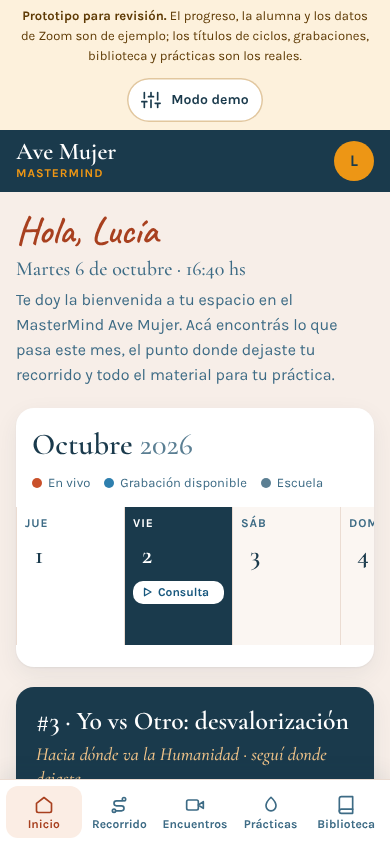
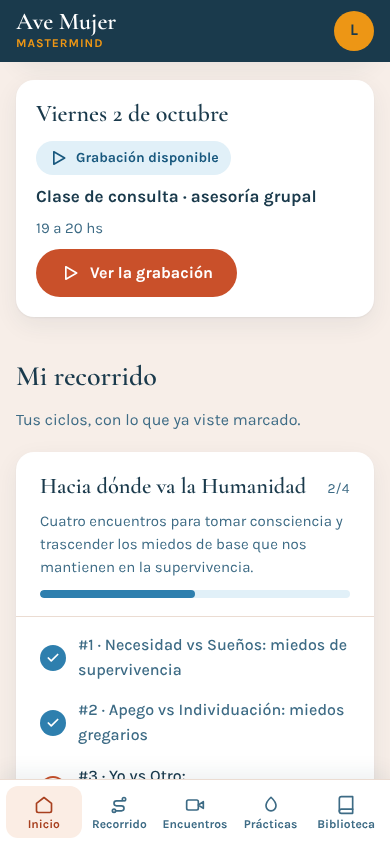
Shorten mobile prototype ribbon; verify day-selection scroll on mobile
Claude-Session: https://claude.ai/code/session_01TSiupAShzRiKr6Rwb6Yrnc

diff --git a/prototipos/escritorio-mastermind/index.html b/prototipos/escritorio-mastermind/index.html
@@ -260,6 +260,7 @@ body.in-lesson .lesson-view{display:flex}
 .lv-side .lessons{padding:4px 0 0}
 
 /* demo panel */
+.proto-short{display:none}
 .proto{display:flex;align-items:center;justify-content:center;gap:12px;flex-wrap:wrap}
 .demo-toggle{min-height:36px;padding:6px 14px;font-size:14px;box-shadow:inset 0 0 0 1.5px #E2C79E}
 .demo{position:fixed;right:20px;top:56px;z-index:30;width:min(340px,calc(100vw - 32px));background:var(--surface);border-radius:var(--r-lg);box-shadow:0 18px 48px rgb(26 58 76 / .28);padding:20px;display:flex;flex-direction:column;gap:12px}
@@ -312,7 +313,7 @@ body.in-lesson .lesson-view{display:flex}
   .demo-toggle{min-height:44px}
   .toast{bottom:calc(84px + env(safe-area-inset-bottom,0px))}
 }
-@media (max-width:520px){.player .ph{display:none}.player .play{width:68px;height:68px}.player .ttl{font-size:1.1rem}.zoom{grid-template-columns:1fr auto}.zoom dt{grid-column:1/-1;margin-bottom:-4px}}
+@media (max-width:520px){.proto{flex-wrap:nowrap;justify-content:space-between;text-align:left;padding:6px 12px}.proto-long{display:none}.proto-short{display:inline}.demo-toggle .dl{display:none}.demo-toggle{width:44px;padding:0;flex:none}.player .ph{display:none}.player .play{width:68px;height:68px}.player .ttl{font-size:1.1rem}.zoom{grid-template-columns:1fr auto}.zoom dt{grid-column:1/-1;margin-bottom:-4px}}
 </style>
 
 <svg width="0" height="0" style="position:absolute" aria-hidden="true">
@@ -359,7 +360,7 @@ body.in-lesson .lesson-view{display:flex}
   </aside>
 
   <div style="min-width:0">
-    <div class="proto" role="note"><span><b>Prototipo para revisión.</b> El progreso, la alumna y los datos de Zoom son de ejemplo; los títulos de ciclos, grabaciones, biblioteca y prácticas son los reales.</span><button class="btn light demo-toggle" type="button" id="demoToggle" aria-expanded="false" aria-controls="demo"><svg class="i"><use href="#i-sliders"/></svg>Modo demo</button></div>
+    <div class="proto" role="note"><span><b>Prototipo para revisión.</b><span class="proto-long"> El progreso, la alumna y los datos de Zoom son de ejemplo; los títulos de ciclos, grabaciones, biblioteca y prácticas son los reales.</span><span class="proto-short"> Datos de ejemplo.</span></span><button class="btn light demo-toggle" type="button" id="demoToggle" aria-expanded="false" aria-controls="demo"><svg class="i"><use href="#i-sliders"/></svg><span class="dl">Modo demo</span><span class="sr">Modo demo</span></button></div>
     <header class="topbar">
       <div class="brand"><span class="name">Ave Mujer</span><span class="label sub">Mastermind</span></div>
       <span class="avatar" aria-label="Lucía Fernández">L</span>
